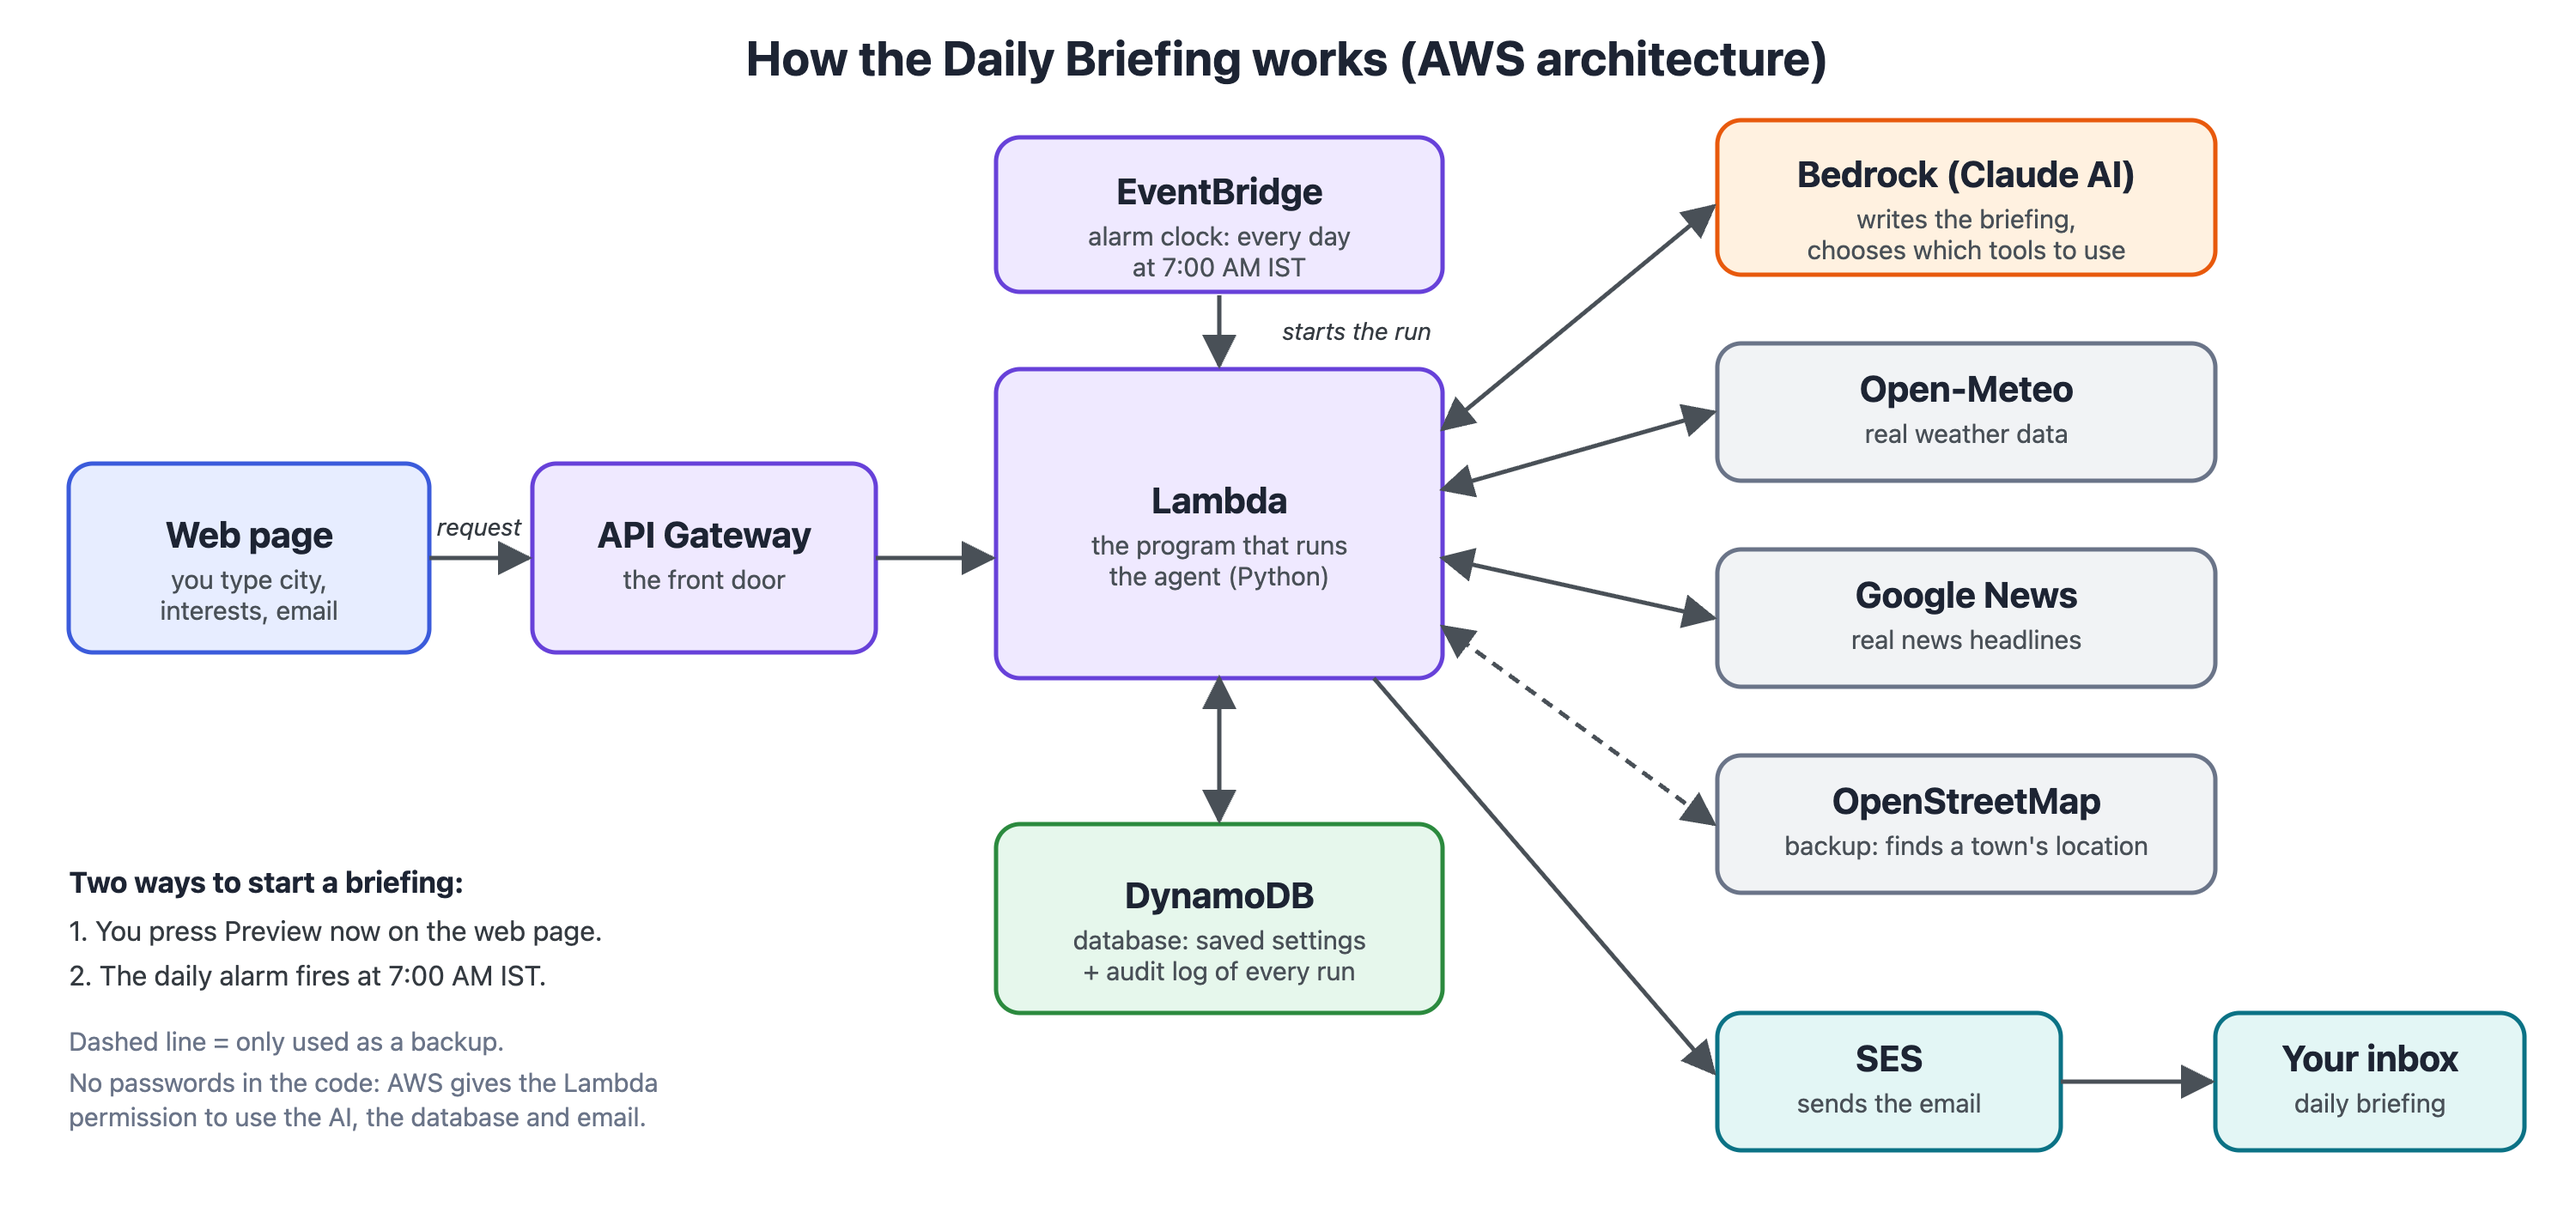
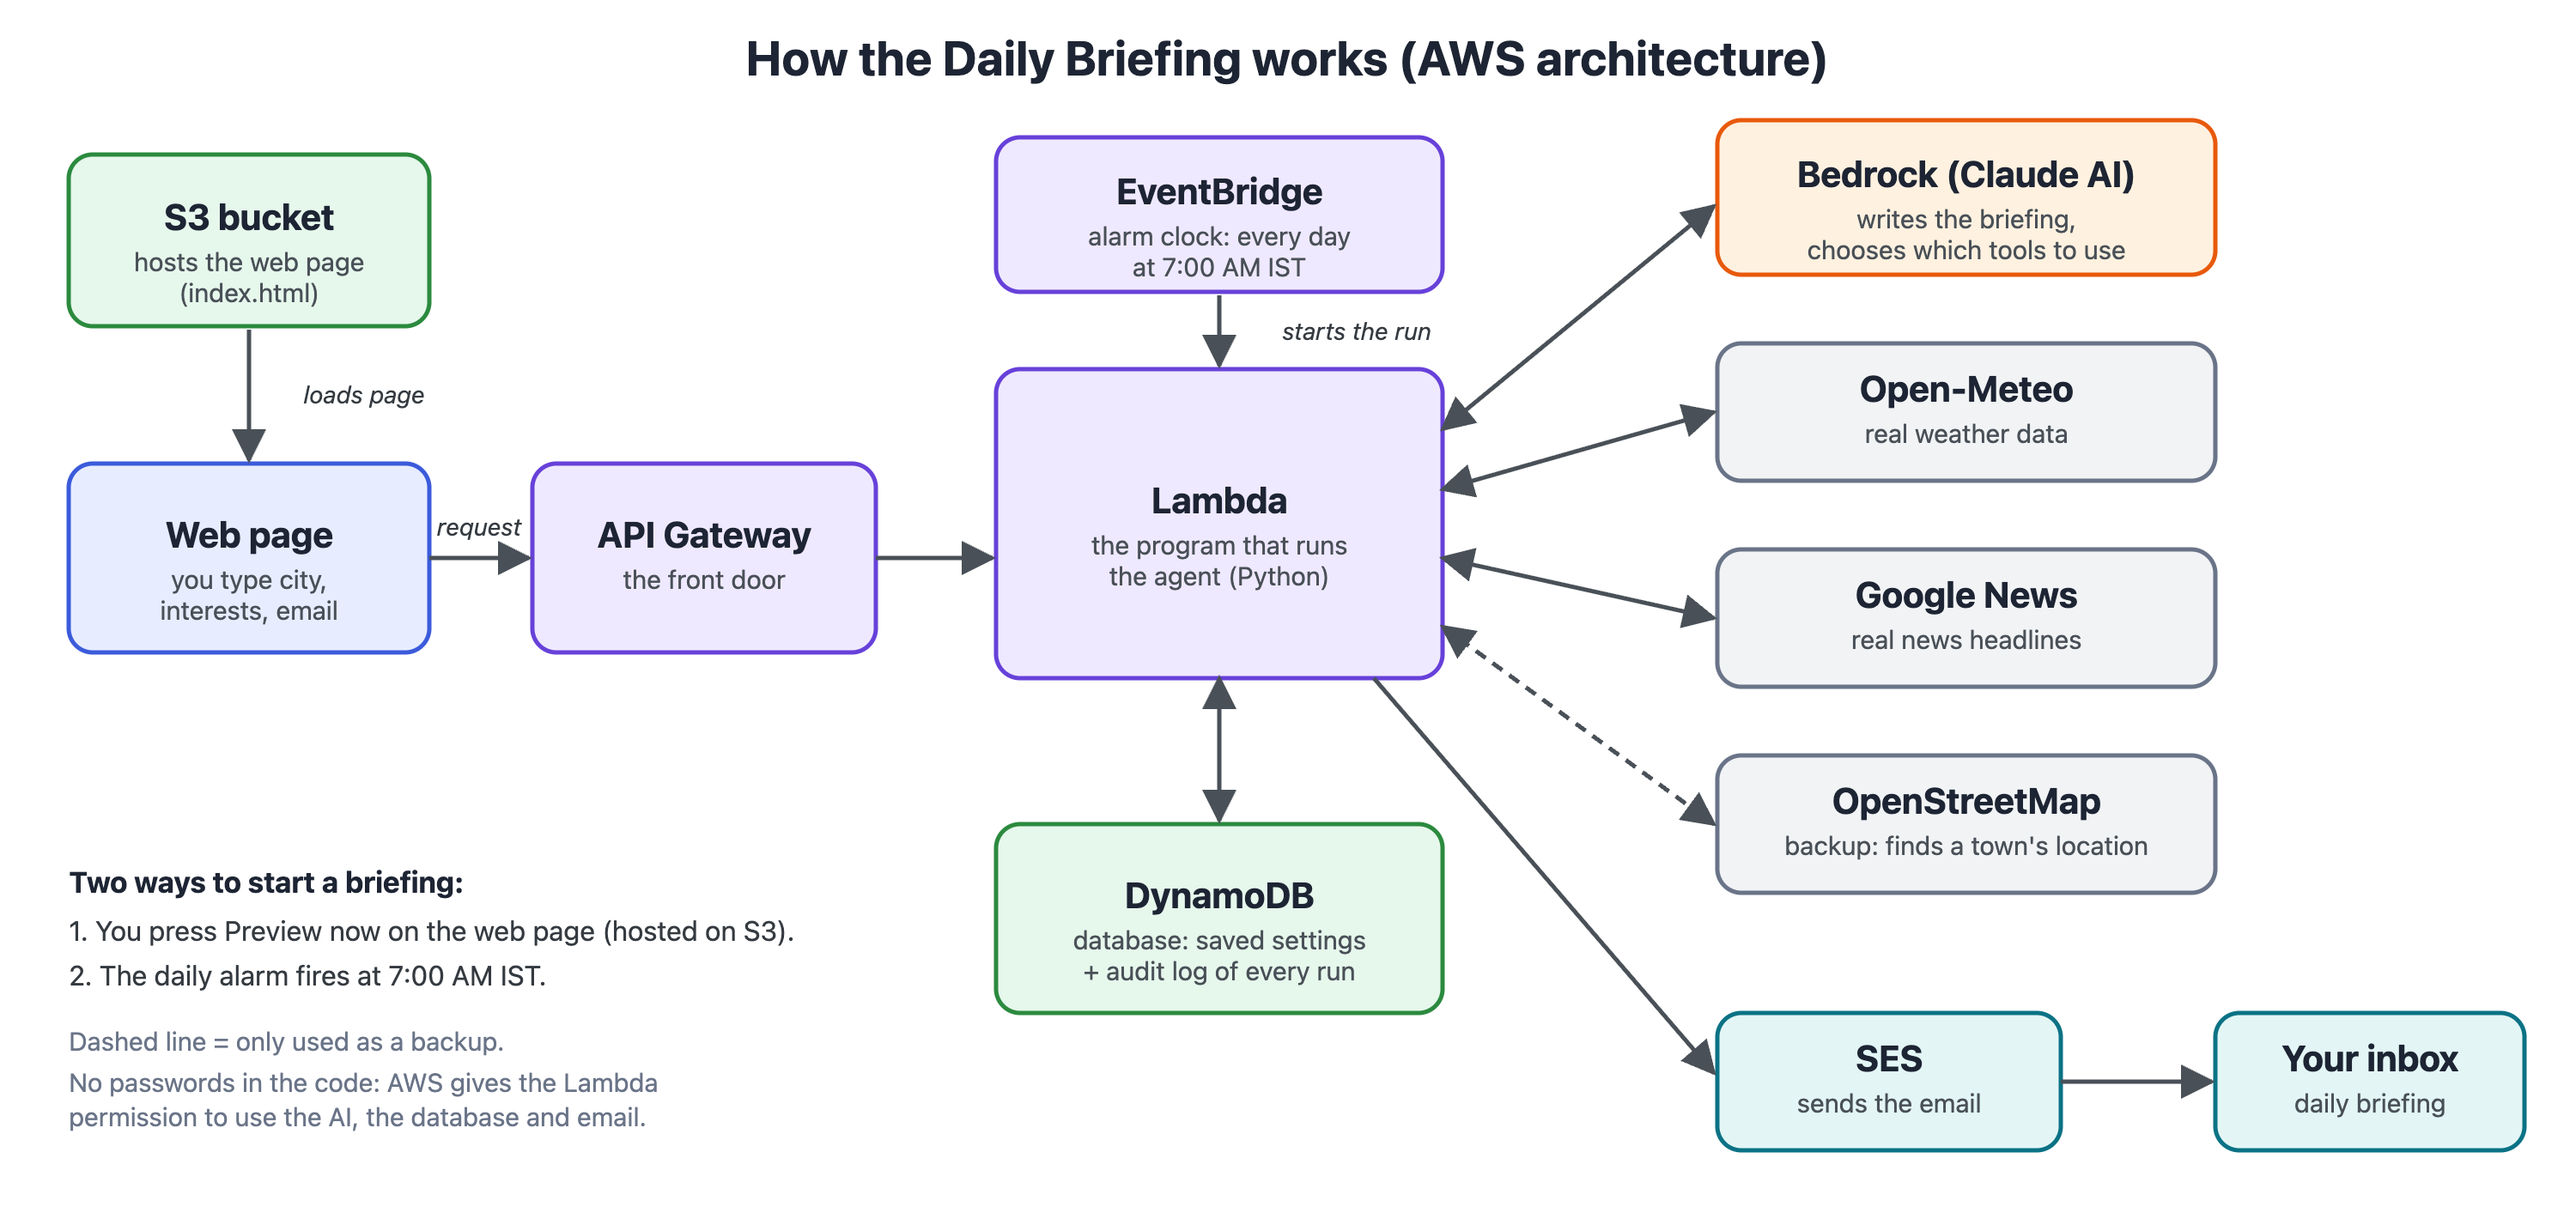
Host index.html on S3 with CORS and config.js; update diagram and README

Changed region(s): [[0.0, 0.1239, 0.186, 0.2789], [0.093, 0.3099, 0.155, 0.3718], [0.248, 0.7437, 0.31, 0.7746]]

diff --git a/lambda/briefing/index.html b/lambda/briefing/index.html
@@ -4,6 +4,7 @@
 <meta charset="utf-8">
 <meta name="viewport" content="width=device-width, initial-scale=1">
 <title>Daily Briefing</title>
+<link rel="icon" href="data:,">
 <style>
   :root {
     --bg: #eef2f9; --card: #ffffff; --text: #1d2433; --muted: #6a7488;
@@ -122,8 +123,11 @@
 </main>
 <footer>Unauthenticated demo. Briefings are written by Claude on AWS Bedrock.</footer>
 
+<script src="config.js"></script>
 <script>
 const $ = id => document.getElementById(id);
+// On S3, config.js sets window.API_URL. When served by the Lambda it is empty and relative URLs are used.
+const API = (window.API_URL || "").replace(/\/$/, "");
 
 function payload() {
   const fail = [];
@@ -151,7 +155,7 @@ function setStatus(text, kind, spinner) {
 async function post(path, busyText) {
   setBusy(true); setStatus(busyText, "", true);
   try {
-    const r = await fetch(path, { method: "POST", headers: { "Content-Type": "application/json" }, body: JSON.stringify(payload()) });
+    const r = await fetch(API + path, { method: "POST", headers: { "Content-Type": "application/json" }, body: JSON.stringify(payload()) });
     const data = await r.json();
     if (!r.ok) { setStatus(data.error || "Request failed", "err"); return null; }
     setStatus("", "");

diff --git a/infra/stack.py b/infra/stack.py
@@ -7,6 +7,8 @@ from aws_cdk import (
     aws_events_targets as targets,
     aws_iam as iam,
     aws_lambda as _lambda,
+    aws_s3 as s3,
+    aws_s3_deployment as s3deploy,
 )
 from constructs import Construct
 
@@ -64,9 +66,34 @@ class BriefingStack(Stack):
             resources=[f"arn:aws:ses:{self.region}:{self.account}:identity/*"],
         ))
 
-        api = apigw.HttpApi(self, "BriefingApi", api_name=f"{PREFIX}-api")
+        # Static site: S3 website hosting for index.html. The page holds no secrets,
+        # so the bucket is public-read (website endpoints cannot use a private bucket).
+        site = s3.Bucket(
+            self, "SiteBucket",
+            bucket_name=f"{PREFIX}-site-{self.account}",
+            website_index_document="index.html",
+            public_read_access=True,
+            block_public_access=s3.BlockPublicAccess(
+                block_public_acls=True, ignore_public_acls=True,
+                block_public_policy=False, restrict_public_buckets=False,
+            ),
+            removal_policy=RemovalPolicy.DESTROY,
+            auto_delete_objects=True,
+        )
+
+        # The page is on a different origin than the API, so the API must allow it (CORS).
+        api = apigw.HttpApi(
+            self, "BriefingApi", api_name=f"{PREFIX}-api",
+            cors_preflight=apigw.CorsPreflightOptions(
+                allow_origins=[site.bucket_website_url],
+                allow_methods=[apigw.CorsHttpMethod.GET, apigw.CorsHttpMethod.POST, apigw.CorsHttpMethod.OPTIONS],
+                allow_headers=["Content-Type"],
+                max_age=Duration.days(1),
+            ),
+        )
         integration = integrations.HttpLambdaIntegration("LambdaIntegration", fn)
         api.add_routes(path="/", methods=[apigw.HttpMethod.GET], integration=integration)
+        api.add_routes(path="/config.js", methods=[apigw.HttpMethod.GET], integration=integration)
         api.add_routes(path="/preview", methods=[apigw.HttpMethod.POST], integration=integration)
         api.add_routes(path="/settings", methods=[apigw.HttpMethod.POST], integration=integration)
 
@@ -77,5 +104,18 @@ class BriefingStack(Stack):
             targets=[targets.LambdaFunction(fn)],
         )
 
+        # index.html comes from the Lambda folder (single source of truth). config.js is
+        # generated here so the page knows the API address.
+        s3deploy.BucketDeployment(
+            self, "DeploySite",
+            destination_bucket=site,
+            sources=[
+                s3deploy.Source.asset("lambda/briefing", exclude=["*", "!index.html"]),
+                s3deploy.Source.data("config.js", f"window.API_URL = '{api.url}';"),
+            ],
+            cache_control=[s3deploy.CacheControl.no_cache()],
+        )
+
+        CfnOutput(self, "SiteUrl", value=site.bucket_website_url)
         CfnOutput(self, "ApiUrl", value=api.url or "")
         CfnOutput(self, "TableName", value=table.table_name)

diff --git a/lambda/briefing/handler.py b/lambda/briefing/handler.py
@@ -148,6 +148,11 @@ def lambda_handler(event, context):
     if method == "GET" and path == "/":
         return _response(200, (Path(__file__).parent / "index.html").read_text(), "text/html")
 
+    if method == "GET" and path == "/config.js":
+        # The S3-hosted page loads its API address from this file. When the page is served
+        # by this Lambda it uses relative URLs, so an empty script is correct.
+        return _response(200, "", "application/javascript")
+
     if method == "POST" and path in ("/preview", "/settings"):
         try:
             raw = event.get("body") or "{}"

diff --git a/tests/test_briefing.py b/tests/test_briefing.py
@@ -351,3 +351,9 @@ def test_news_us_edition_used_when_regional_request_errors(monkeypatch):
         return SAMPLE_RSS
     monkeypatch.setattr(tools, "_http_text", fake)
     assert tools.get_news(["stocks"], country_code="IN")["items"]
+
+
+def test_config_js_is_empty_javascript():
+    out = handler.lambda_handler(_event("GET", "/config.js"), None)
+    assert out["statusCode"] == 200 and out["body"] == ""
+    assert out["headers"]["Content-Type"] == "application/javascript"

diff --git a/README.md b/README.md
@@ -1,6 +1,6 @@
 # Daily News + Weather Briefing
 
-An AWS agent that emails a short morning briefing: real local weather plus news on your interests, grouped by interest. A web page lets you set your city, interests and email, and has a **Preview now** button that shows the briefing immediately, with a **Run details** box (tools used, items kept, skipped sources).
+An AWS agent that emails a short morning briefing: real local weather plus news on your interests, grouped by interest. A web page (hosted on S3) lets you set your city, interests and email, and has a **Preview now** button that shows the briefing immediately, with a **Run details** box (tools used, items kept, skipped sources).
 
 Spec: [`docs/project-spec.md`](docs/project-spec.md) · Owner: Siva Yerasi · Repo: https://github.com/sivayerasi/news-weather-briefing
 
@@ -12,7 +12,8 @@ The same picture as a GitHub-rendered diagram:
 
 ```mermaid
 flowchart LR
-    U[Browser: index.html] -->|GET /, POST /preview, POST /settings| API[API Gateway HTTP API]
+    S3[S3 bucket: index.html + config.js] -->|loads page| U[Browser]
+    U -->|POST /preview, POST /settings| API[API Gateway HTTP API]
     EB[EventBridge daily cron] --> L
     API --> L[Lambda: briefing agent]
     L <-->|converse + tool use| BR[Bedrock: Claude Sonnet 4.6]
@@ -42,6 +43,7 @@ Inside one run, the Lambda code and the AI take turns. The AI asks for a tool, t
 - **News retry:** if a topic's request fails or comes back empty, it is retried once after a short pause.
 - **Interests:** separate with commas. Words without a comma count as one interest, so `stock market` stays one interest. The page warns if you type several words with no comma.
 - **Email:** sent as HTML (bold headings, bullet lists) with a plain-text fallback.
+- **Page hosting:** `index.html` is hosted on S3 (static website hosting). A generated `config.js` tells the page the API address, and the API allows only that S3 address through CORS. The Lambda still serves a copy of the page at `GET /` as a fallback.
 - **Settings:** one saved setting per email address. Saving again with the same email overwrites it.
 
 ## Reliability and guardrails
@@ -70,11 +72,12 @@ Weather source skipped (simulated). The briefing still arrives with "Weather una
 
 ## API
 
-All routes are served by the same Lambda, so the page and the API share one URL (the `ApiUrl` stack output).
+The page is served from S3 (the `SiteUrl` stack output) and calls the API (the `ApiUrl` output). All API routes are handled by the same Lambda, which also keeps a copy of the page at `GET /`.
 
 | Route | Purpose | Body (JSON) |
 |---|---|---|
-| `GET /` | The web page | none |
+| `GET /` | A copy of the web page (the main page is on S3) | none |
+| `GET /config.js` | Empty script, so the Lambda-served copy of the page works without an API address | none |
 | `POST /preview` | Run the agent now and return the briefing | `city`, `interests`, optional `email`, optional `simulate_failure` (`["weather"]`, `["news"]`) |
 | `POST /settings` | Save city, interests and email for the daily email | `city`, `interests`, `email` |
 
@@ -87,7 +90,8 @@ Stack name `news-weather-briefing`, region `us-east-1`.
 | Resource | Name | Notes |
 |---|---|---|
 | Lambda | `news-weather-briefing-agent` | 256 MB, 120 s timeout |
-| API Gateway HTTP API | `news-weather-briefing-api` | Unauthenticated (demo) |
+| API Gateway HTTP API | `news-weather-briefing-api` | Unauthenticated (demo). CORS allows only the S3 website address |
+| S3 bucket | `news-weather-briefing-site-<account id>` | Static website hosting for `index.html` and `config.js`. Public read (the page has no secrets). Emptied and deleted with the stack |
 | DynamoDB table | `news-weather-briefing-table` | On-demand. Keys: `pk` = `USER#<email>`, `sk` = `SETTINGS` or `AUDIT#<timestamp>`. TTL on `expires_at` (audit rows). Deleted with the stack. |
 | EventBridge rule | `news-weather-briefing-daily` | Default 01:30 UTC = 7:00 AM IST |
 | IAM role (Lambda) | auto-named | DynamoDB read/write on its own table, `bedrock:InvokeModel` on Claude Sonnet 4.6 only (this action also authorizes `converse()`), `ses:SendEmail` |
@@ -105,7 +109,7 @@ lambda/briefing/           Lambda code
   tools.py                   get_weather, get_news, filter_by_interest
   guardrails.py              input validation, output scrubbing
   store.py                   DynamoDB settings and audit log
-  index.html                 the web page (plain HTML, CSS and JavaScript)
+  index.html                 the web page (plain HTML, CSS and JavaScript); deployed to S3
 tests/test_briefing.py     40 unit tests (no AWS needed)
 docs/                      project spec, sample audit log, screenshots, diagrams (PNG + SVG)
 ```
@@ -152,7 +156,7 @@ Complete the [Setup](#setup) first (tools, AWS login, `cdk bootstrap`, `.venv`).
    ```
    cdk deploy
    ```
-4. Open the `ApiUrl` output, enter a city and interests, and press Preview now. Press "Save for daily email" to receive the daily email.
+4. Open the `SiteUrl` output (the S3 page), enter a city and interests, and press Preview now. Press "Save for daily email" to receive the daily email.
 
 **Changing the send time:** the schedule is in UTC. India is UTC+5:30, so 7:00 AM IST is 01:30 UTC. Edit `cdk.json` and run `cdk deploy` again (with the sender address, as above).
 
@@ -170,7 +174,7 @@ This emails every saved user.
 
 ## Demo
 
-Open the `ApiUrl` from the deploy output and follow these steps. Screenshots of steps 1 and 2 are in [Screenshots](#screenshots).
+Open the `SiteUrl` from the deploy output and follow these steps. Screenshots of steps 1 and 2 are in [Screenshots](#screenshots).
 
 1. **Normal briefing.** Enter a city (for example `Tadipatri`) and interests (`stocks, technology`), then press **Preview now**. After about 10 seconds the briefing appears. Open **Run details**: all three tools show a green tick.
 2. **Skipped source.** Tick **weather** under "Demo: simulate a dead source" and press Preview again. The briefing still arrives and says "Weather unavailable today". Run details shows a red cross on `get_weather` and "Unavailable today: weather". Try **news** the same way.
@@ -211,4 +215,4 @@ This removes every resource above, including the DynamoDB table and its saved se
 - The daily run scans the whole table for saved settings, which is fine for a demo but not for many users.
 - SES sandbox: only verified addresses can receive email.
 - Tools use Python's built-in `urllib` instead of `httpx`, so the Lambda needs no bundled packages. The web requests are the same.
-- The page is served by the Lambda. Hosting `index.html` on S3 (the spec's stretch goal) was not done.
+- The S3 website address is HTTP only (no padlock), and the bucket is public-read. The page contains no secrets. For HTTPS and a private bucket, put CloudFront in front of the bucket.
